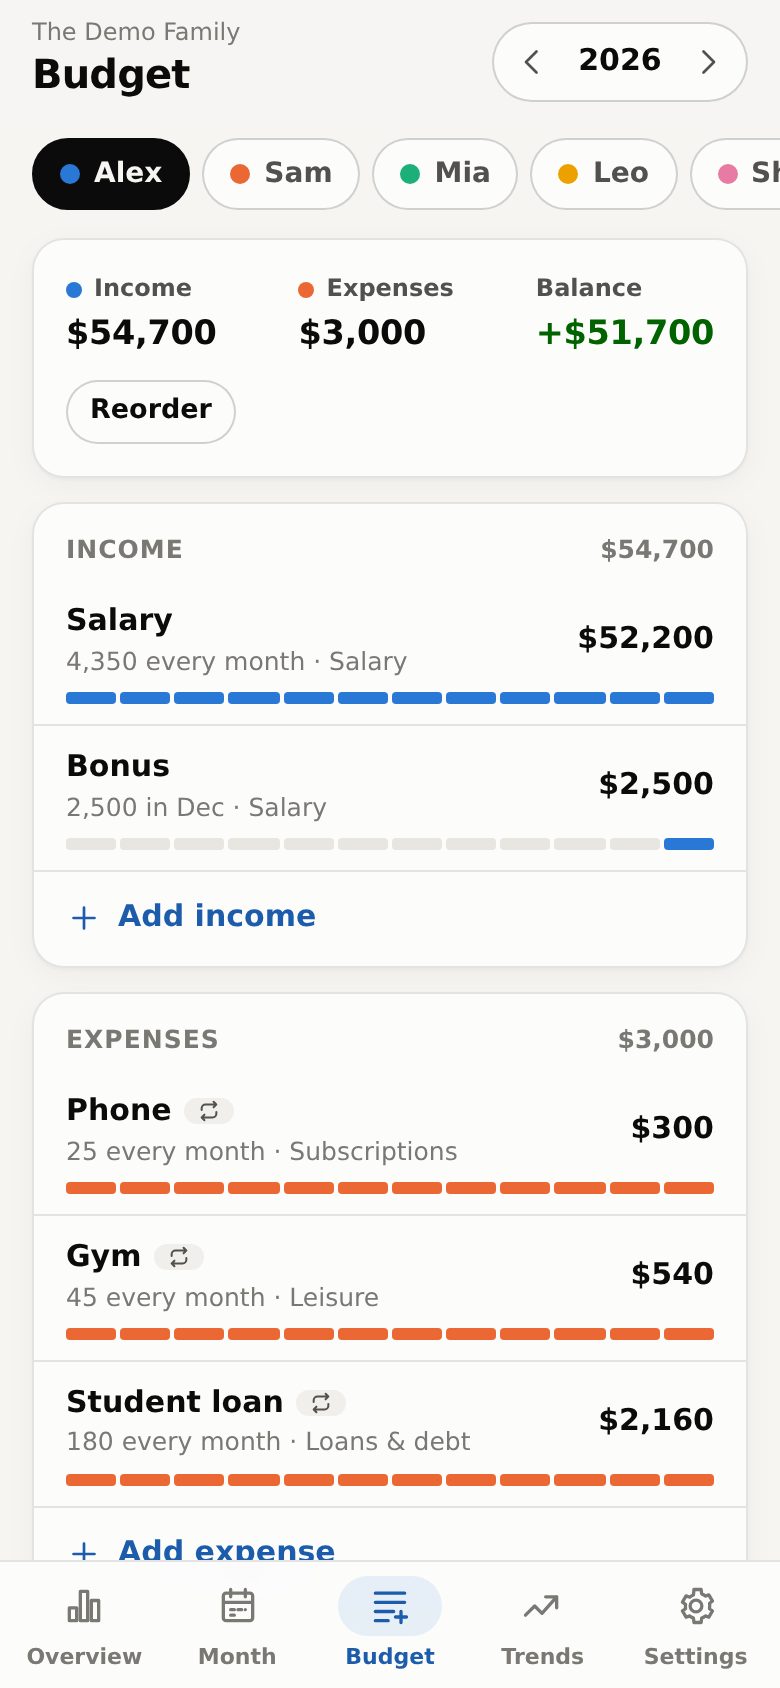
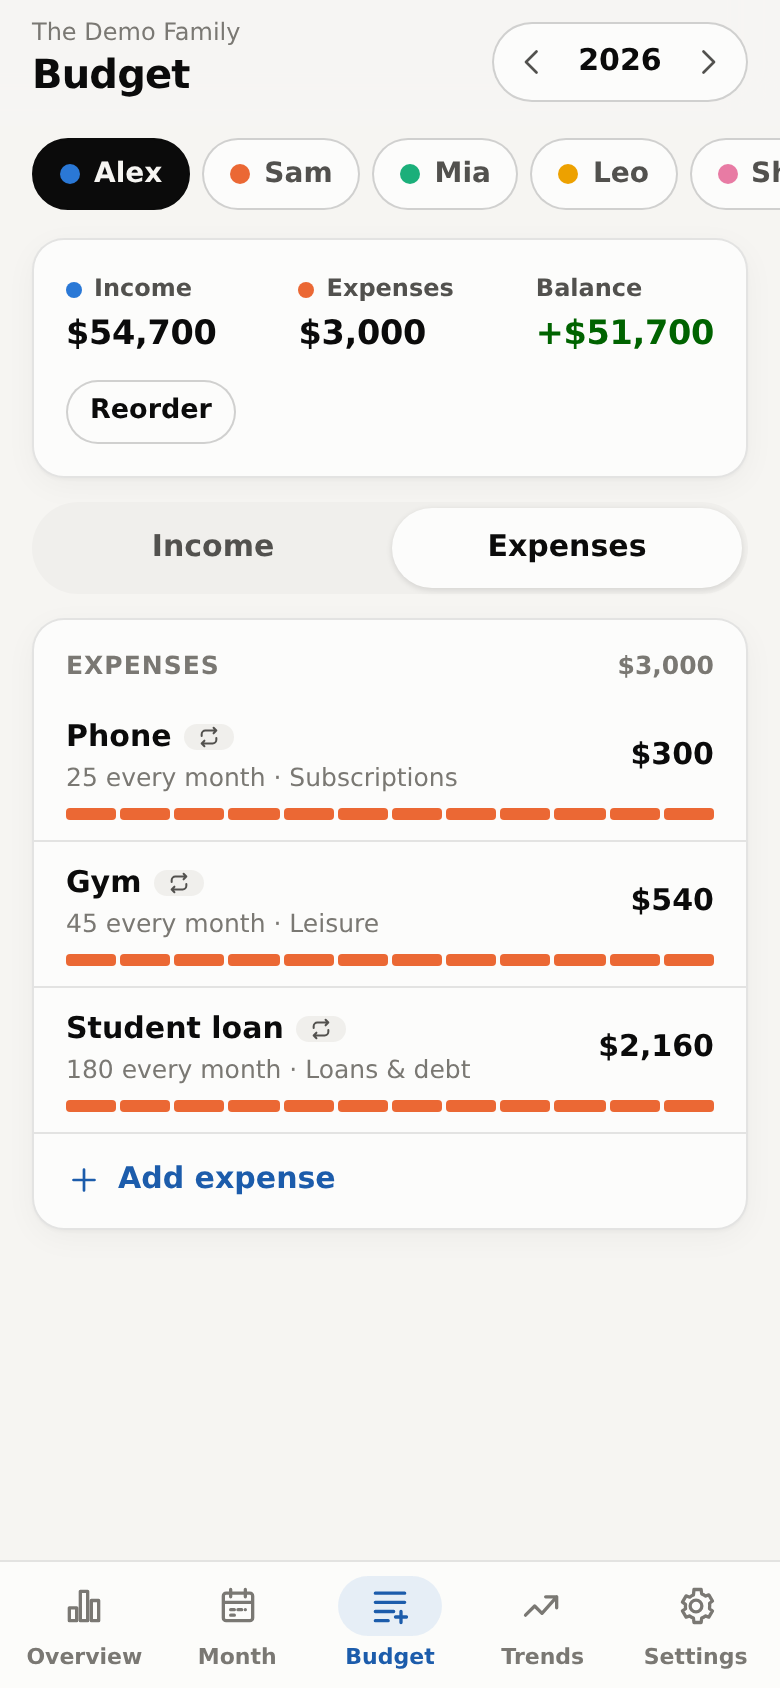
Login asks for the budget name; new screenshots and README
- The login field is the budget name, not a username, and the login page
  has no help text. Setup explains what the budget name is for.
- Currency symbols are the short ones: $1,234 rather than US$1,234.
- New README screenshots (phone and computer) and text for the current
  features; the demo script creates a budget with a login.

Changed region(s): [[0.0615, 0.3081, 0.9231, 0.9242]]

diff --git a/static/js/i18n.js b/static/js/i18n.js
@@ -291,18 +291,17 @@ const en = {
   'bank.ignoreHint': 'Ignore transfers between your own accounts, so they aren’t counted twice.',
   'bank.sorted': 'Sorted',
   'bank.sortedMore': 'Sorted, plus {n} more by the rule',
-  'login.username': 'Username',
-  'login.hint': 'One login for the whole budget: everyone in the household uses the same.',
+  'login.username': 'Budget name',
   'login.newBudget': 'Create a new budget',
   'setup.login': 'Login for the budget',
-  'setup.loginHint': 'Everyone in the household shares this login. Your phone remembers it for a year.',
+  'setup.loginHint': 'A short name you log in with, plus a password, shared by everyone in the household. Phones remember it for a year.',
   'setup.passwordRepeat': 'Repeat the password',
   'setup.passwordShort': 'At least 8 characters',
   'setup.passwordMismatch': 'The passwords are not the same',
   'setup.back': 'Back to login',
   'settings.login': 'Login',
   'settings.loginHint': 'Shared by everyone in the budget. Changing the password logs out all other devices.',
-  'settings.changeLogin': 'Change username or password',
+  'settings.changeLogin': 'Change budget name or password',
   'settings.newPassword': 'New password',
   'settings.newPasswordHint': 'Leave empty to keep the current one.',
   'settings.currentPassword': 'Current password',
@@ -405,10 +404,10 @@ const en = {
   'settings.dot': 'Dot',
   'errors.INVALID': 'Some of what was entered isn’t valid.',
   'errors.NOT_FOUND': 'That doesn’t exist (any more).',
-  'errors.USERNAME_INVALID': 'The username must be at least 2 characters, without spaces.',
+  'errors.USERNAME_INVALID': 'The budget name must be at least 2 characters, without spaces.',
   'errors.TOO_MANY_ATTEMPTS': 'Too many attempts. Try again in 15 minutes.',
-  'errors.WRONG_LOGIN': 'Wrong username or password',
-  'errors.USERNAME_TAKEN': 'That username is taken.',
+  'errors.WRONG_LOGIN': 'Wrong budget name or password',
+  'errors.USERNAME_TAKEN': 'That budget name is taken.',
   'errors.NEW_BUDGETS_OFF': 'New budgets can’t be created on this server.',
   'errors.SHARED_CANNOT_DELETE': 'The shared budget can be renamed, not deleted.',
   'errors.MEMBER_HAS_ITEMS': 'This person has items in the budget. Archive them instead.',
@@ -791,18 +790,17 @@ const da = {
   'bank.ignoreHint': 'Ignorér overførsler mellem jeres egne konti, så de ikke tæller dobbelt.',
   'bank.sorted': 'Sorteret',
   'bank.sortedMore': 'Sorteret, plus {n} mere via reglen',
-  'login.username': 'Brugernavn',
-  'login.hint': 'Ét login til hele budgettet: alle i husstanden bruger det samme.',
+  'login.username': 'Budgetnavn',
   'login.newBudget': 'Opret et nyt budget',
   'setup.login': 'Login til budgettet',
-  'setup.loginHint': 'Alle i husstanden deler dette login. Telefonen husker det i et år.',
+  'setup.loginHint': 'Et kort navn I logger ind med, og en adgangskode, fælles for alle i husstanden. Telefonen husker det i et år.',
   'setup.passwordRepeat': 'Gentag adgangskoden',
   'setup.passwordShort': 'Mindst 8 tegn',
   'setup.passwordMismatch': 'Adgangskoderne er ikke ens',
   'setup.back': 'Tilbage til login',
   'settings.login': 'Login',
   'settings.loginHint': 'Fælles for alle i budgettet. Skifter du adgangskode, bliver alle andre enheder logget ud.',
-  'settings.changeLogin': 'Skift brugernavn eller adgangskode',
+  'settings.changeLogin': 'Skift budgetnavn eller adgangskode',
   'settings.newPassword': 'Ny adgangskode',
   'settings.newPasswordHint': 'Lad stå tom for at beholde den nuværende.',
   'settings.currentPassword': 'Nuværende adgangskode',
@@ -905,10 +903,10 @@ const da = {
   'settings.dot': 'Punktum',
   'errors.INVALID': 'Noget af det indtastede er ikke gyldigt.',
   'errors.NOT_FOUND': 'Det findes ikke (længere).',
-  'errors.USERNAME_INVALID': 'Brugernavnet skal være mindst 2 tegn og uden mellemrum.',
+  'errors.USERNAME_INVALID': 'Budgetnavnet skal være mindst 2 tegn og uden mellemrum.',
   'errors.TOO_MANY_ATTEMPTS': 'For mange forsøg. Prøv igen om 15 minutter.',
-  'errors.WRONG_LOGIN': 'Forkert brugernavn eller adgangskode',
-  'errors.USERNAME_TAKEN': 'Brugernavnet er optaget.',
+  'errors.WRONG_LOGIN': 'Forkert budgetnavn eller adgangskode',
+  'errors.USERNAME_TAKEN': 'Budgetnavnet er optaget.',
   'errors.NEW_BUDGETS_OFF': 'Der kan ikke oprettes nye budgetter på denne server.',
   'errors.SHARED_CANNOT_DELETE': 'Det fælles budget kan omdøbes, men ikke slettes.',
   'errors.MEMBER_HAS_ITEMS': 'Personen har poster i budgettet. Arkivér personen i stedet.',

diff --git a/static/js/fmt.js b/static/js/fmt.js
@@ -30,8 +30,9 @@ export function setFormat({ language = 'en', currency = 'USD', decimal, both = '
     both: both === 'invalid' ? 'invalid' : 'last', // 'either' with a comma and a dot: the last is the decimal sign, or invalid
     decimal: dec,
     group: either ? '\u202f' : dec === ',' ? '.' : ',',
-    money: make({ style: 'currency', currency, maximumFractionDigits: 0, minimumFractionDigits: 0 }, { maximumFractionDigits: 0 }),
-    moneyShort: make({ style: 'currency', currency, notation: 'compact', maximumFractionDigits: 1 }, { notation: 'compact', maximumFractionDigits: 1 }),
+    // narrowSymbol: "$" rather than "US$", "kr." for kroner.
+    money: make({ style: 'currency', currency, currencyDisplay: 'narrowSymbol', maximumFractionDigits: 0, minimumFractionDigits: 0 }, { maximumFractionDigits: 0 }),
+    moneyShort: make({ style: 'currency', currency, currencyDisplay: 'narrowSymbol', notation: 'compact', maximumFractionDigits: 1 }, { notation: 'compact', maximumFractionDigits: 1 }),
     plain: make({ maximumFractionDigits: 2, minimumFractionDigits: 0 }),
     compact: make({ notation: 'compact', maximumFractionDigits: 1 }),
     pct: make({ style: 'percent', maximumFractionDigits: 0 }),

diff --git a/static/js/views/login.js b/static/js/views/login.js
@@ -31,7 +31,6 @@ export function Login({ canCreate, onDone, onCreate }) {
         <input class="input" type="password" name="password" autocomplete="current-password" value=${password} onInput=${(e) => setPassword(e.target.value)} /></label>
       ${error && html`<div class="bad small">${error}</div>`}
       <button class="btn primary block" disabled=${busy || !login || !password}>${t('login.submit')}</button>
-      <p class="small muted" style="margin:0">${t('login.hint')}</p>
     </form>
     ${canCreate && html`<p style="text-align:center"><button class="btn ghost" onClick=${onCreate}>${t('login.newBudget')}</button></p>`}
   </div></div>`;

diff --git a/app/main.py b/app/main.py
@@ -216,7 +216,7 @@ def health():
 def _login_name(login: str) -> str:
     login = login.strip().lower()
     if len(login) < 2 or any(ch.isspace() for ch in login):
-        raise AppError(422, "USERNAME_INVALID", "the username must be at least 2 characters, without spaces")
+        raise AppError(422, "USERNAME_INVALID", "the budget name must be at least 2 characters, without spaces")
     return login
 
 
@@ -241,7 +241,7 @@ def _check_password(request: Request, row, password: str) -> None:
     if row is None or not auth.verify_password(password, row["password_hash"]):
         auth.record_failure(client)
         time.sleep(1)
-        raise AppError(401, "WRONG_LOGIN", "wrong username or password")
+        raise AppError(401, "WRONG_LOGIN", "wrong budget name or password")
 
 
 @app.get("/api/session")
@@ -299,7 +299,7 @@ def change_login_details(body: LoginDetailsIn, request: Request, response: Respo
                 login = _login_name(body.login)
                 taken = server.execute("SELECT 1 FROM budgets WHERE login = ? AND id != ?", (login, row["id"])).fetchone()
                 if taken:
-                    raise AppError(409, "USERNAME_TAKEN", "that username is taken")
+                    raise AppError(409, "USERNAME_TAKEN", "that budget name is taken")
                 server.execute("UPDATE budgets SET login = ? WHERE id = ?", (login, row["id"]))
             if body.password is not None:
                 password_hash = auth.hash_password(body.password)
@@ -405,7 +405,7 @@ def create_budget(body: NewBudgetIn, request: Request, response: Response):
         if count and not auth.allow_new_budgets():
             raise AppError(403, "NEW_BUDGETS_OFF", "new budgets are turned off on this server")
         if server.execute("SELECT 1 FROM budgets WHERE login = ?", (login,)).fetchone():
-            raise AppError(409, "USERNAME_TAKEN", "that username is taken")
+            raise AppError(409, "USERNAME_TAKEN", "that budget name is taken")
         budget_id = server.execute(
             "INSERT INTO budgets (name, login, password_hash, created) VALUES (?, ?, ?, ?)",
             (body.household.strip(), login, password_hash, int(time.time())),

diff --git a/scripts/seed_demo.py b/scripts/seed_demo.py
@@ -1,16 +1,19 @@
-"""Fill an empty Jetbuddy with a made-up family, to try it out or take screenshots.
+"""Add a made-up family to a Jetbuddy, to try it out or take screenshots.
 
     python scripts/seed_demo.py http://localhost:8000
 
-Only works on a Jetbuddy that has not been set up yet.
+Creates the budget "demo" with the password "demo-demo".
 """
 
+import http.cookiejar
 import json
 import random
 import sys
 import urllib.request
 
 BASE = (sys.argv[1] if len(sys.argv) > 1 else "http://localhost:8000").rstrip("/")
+# Creating the budget logs in; the cookie keeps it that way for the calls after.
+opener = urllib.request.build_opener(urllib.request.HTTPCookieProcessor(http.cookiejar.CookieJar()))
 
 
 def call(method, path, body=None):
@@ -20,7 +23,7 @@ def call(method, path, body=None):
         data=None if body is None else json.dumps(body).encode(),
         headers={"Content-Type": "application/json"},
     )
-    with urllib.request.urlopen(req) as res:
+    with opener.open(req) as res:
         return json.loads(res.read())
 
 
@@ -36,11 +39,13 @@ def main():
     random.seed(7)
     state = call(
         "POST",
-        "/api/setup",
+        "/api/budgets",
         {
             "household": "The Demo Family",
+            "login": "demo",
+            "password": "demo-demo",
             "language": "en",
-            "locale": "en-US",
+            "decimal": ".",
             "currency": "USD",
             "members": ["Alex", "Sam", "Mia", "Leo"],
             "shared_name": "Shared",
@@ -90,7 +95,7 @@ def main():
     call("PUT", f"/api/accounts/{acc['main']}/balance", {"year": 2025, "month": 1, "amount": 3200})
     call("PUT", f"/api/accounts/{acc['savings']}/balance", {"year": 2025, "month": 1, "amount": 18500})
     call("PUT", f"/api/accounts/{acc['main']}/balance", {"year": 2026, "month": 6, "amount": 4100})
-    print("Demo family created.")
+    print("Demo family created: log in as demo / demo-demo.")
 
 
 if __name__ == "__main__":

diff --git a/README.md b/README.md
@@ -9,10 +9,11 @@ stays on your own server.
 
 <p>
   <img src="docs/phone-overview.png" width="200" alt="Overview on a phone">
+  <img src="docs/phone-month.png" width="200" alt="This month's expenses on a phone">
   <img src="docs/phone-budget.png" width="200" alt="Budget items on a phone">
-  <img src="docs/phone-month.png" width="200" alt="This month's amounts on a phone">
-  <img src="docs/phone-trends-dark.png" width="200" alt="Trends across years, dark mode">
+  <img src="docs/phone-balance-dark.png" width="200" alt="Monthly balance, dark mode">
 </p>
+<img src="docs/desktop-month.png" alt="Income and expenses side by side on a computer">
 
 ## Features
 
@@ -21,13 +22,16 @@ stays on your own server.
 - **Simple items.** "2,500 every month" or "880 every quarter". When one month
   is different, tap it and change just that month.
 - **Every year in one place.** Start next year from this year with one tap.
-- **An overview** of income, expenses, savings and where the money goes, per
-  month, per person and per category, and how it changes over the years.
-- **Bank sync (optional).** See your real account balances, and what was
-  actually paid next to what you planned.
+- **An overview** of income, expenses, the monthly balance, savings and where
+  the money goes, per person and per category, and how it changes over the years.
+- **Bank sync (optional).** Your bank accounts and their real balances show up
+  by themselves, and you see what was actually paid next to what you planned.
+- **Checks the numbers.** Amounts that look 10, 100 or 1000 times off, the
+  usual result of a comma read as a dot, are flagged with a one-tap fix, and
+  the overview tells you when the totals can't be trusted yet.
 - **Export to Excel**, and import your old budget spreadsheet.
 - One login per household. Several households can share a server.
-- English and Danish, any currency, light and dark mode.
+- English and Danish, any currency, comma or dot decimals, light and dark mode.
 
 ## Getting started
 
@@ -46,12 +50,13 @@ services:
 ```
 
 Then run `docker compose up -d`, open `http://<your-server>:8000`, and create
-your budget. You pick a username and password that the whole household shares.
+your budget. You pick a budget name and a password that the whole household
+shares.
 
-**On your phone**, open the same address and choose *Add to Home Screen*.
-Jetbuddy then opens like a normal app. On Android this works best over https,
-so if you have a reverse proxy (Caddy, Traefik, Nginx Proxy Manager…), put
-Jetbuddy behind it.
+**On your phone**, open the same address and add it to your home screen: the
+app shows you how under **Settings → Install as app**. Jetbuddy then opens like
+a normal app. On Android this works best over https, so if you have a reverse
+proxy (Caddy, Traefik, Nginx Proxy Manager…), put Jetbuddy behind it.
 
 ## Connecting your bank
 
@@ -64,6 +69,11 @@ Setting it up takes about ten minutes, and the app walks you through every step
 under **Settings → Bank**. After that, Jetbuddy syncs by itself a few times a
 day. Every few months your bank asks you to log in again, and Jetbuddy tells you
 when.
+
+Your bank accounts then appear under **Settings → Accounts**, where you can give
+them your own names. Which accounts Jetbuddy sees is decided at the bank: leave
+an account out there (or unlink it in Enable Banking) and it disappears from
+Jetbuddy with all its data.
 
 Transactions show up in the month view, where you put each one on a budget item.
 Tick "do the same next time" and future ones sort themselves.
@@ -100,8 +110,8 @@ JETBUDDY_DATA_DIR=./data .venv/bin/uvicorn app.main:app --reload
 .venv/bin/pytest
 ```
 
-Run `python scripts/seed_demo.py http://localhost:8000` against an empty instance
-to get a made-up family to play with. The backend is FastAPI with SQLite in
+Run `python scripts/seed_demo.py http://localhost:8000` to add a made-up family
+to play with (log in as `demo` / `demo-demo`). The backend is FastAPI with SQLite in
 `app/`, and the frontend in `static/` has no build step (Preact and htm are
 included). Translations live in `static/js/i18n.js`. To add a language, copy
 the English block.
